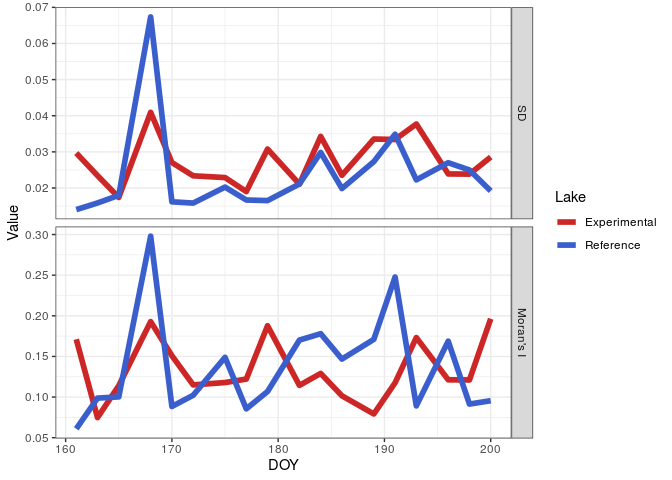
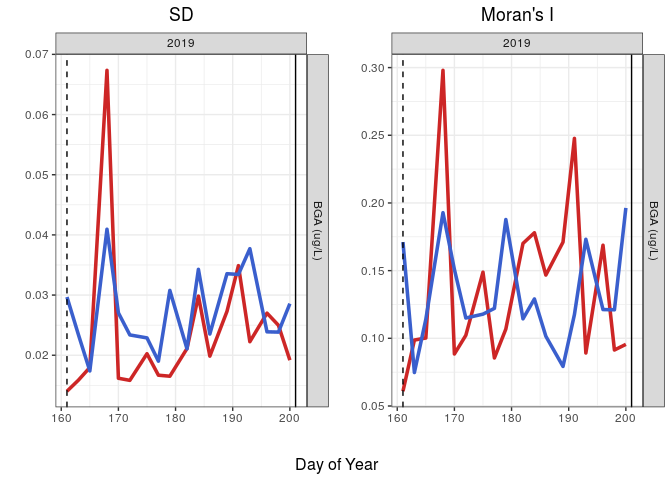
added spatial stats plotting function

diff --git a/README.md b/README.md
@@ -31,19 +31,19 @@ Example results from most recent experiment:
 library(tvsews)
 library(dplyr)
 library(ggplot2)
-ex_data <- ts_data %>% 
-  filter(Year >= 2018) %>% 
+ex_data <- ts_data %>%
+  filter(Year >= 2018) %>%
   select(Lake, Year, DOY, BGA_HYLB)
 
-ex_bloom_fert_dates <- bloom_fert_dates %>% 
+ex_bloom_fert_dates <- bloom_fert_dates %>%
   filter(Year >= 2018 & Lake == "R")
 
 plot_fig1(
-  time_series = ex_data, 
+  time_series = ex_data,
   bloom_fert_df = ex_bloom_fert_dates,
   var_rename_vec = c(`Phycocyanin (cells/mL)` = "BGA_HYLB"),
-  legend_location = c(0.18,0.7)
-  )
+  legend_location = c(0.18, 0.7)
+)
 ```
 
 <img src="man/figures/README-example-1.png" width="100%" />
@@ -55,7 +55,7 @@ ex_rw_stats <- calc_rolling_stats(
   data = ex_data,
   var_cols = "BGA_HYLB",
   widths = c(21)
-  ) # warnings are missing data, okay
+) # warnings are missing data, okay
 ex_qd_all <- run_qd(
   rolling_window_stats = ex_rw_stats,
   var_cols = "BGA_HYLB",
@@ -64,21 +64,21 @@ ex_qd_all <- run_qd(
   exp_lakes = c("R"),
   ref_lake = "L",
   ar1_alarm_rho = 0.95
-  )
+)
 #> [1] "Current variable QD-ing: BGA_HYLB"
 ex_qd_formatted <- format_qd(
   qd_stats = ex_qd_all,
   var_cols = c("BGA_HYLB")
-  )
+)
 ```
 
 ``` r
 # plot the rolling window statistics and alarms
-time_series_plot = plot_fig3(
+time_series_plot <- plot_fig3(
   rolling_window_stats = ex_rw_stats,
   qd_alarms = ex_qd_formatted,
   bloom_fert_df = ex_bloom_fert_dates,
-  var_rename_vec = c(`Phycocyanin (cells/mL)` = "BGA_HYLB"), 
+  var_rename_vec = c(`Phycocyanin (cells/mL)` = "BGA_HYLB"),
   legend_location = c(0.2, 0.7)
 )
 ```
@@ -102,7 +102,7 @@ plot_fig5(
 
 <img src="man/figures/README-unnamed-chunk-4-1.png" width="100%" />
 
-### Plot example spatial data (TO DO: add function to package)
+### Plot example spatial data
 
 ``` r
 plot_fig2(
@@ -119,26 +119,19 @@ plot_fig2(
 #### Just dates in pre-bloom fertilization period to limit computation time.
 
 ``` r
-ex_spatial_data_pbfp = flame_data %>% 
+ex_spatial_data_pbfp <- flame_data %>%
   filter(Year == 2019 & between(DOY, 161, 201))
 
-spatial_stats_pbfp = calc_spatial_stats(
+spatial_stats_pbfp <- calc_spatial_stats(
   spatial_data = ex_spatial_data_pbfp,
   var_cols = c("BGApc_ugL_tau")
-  ) # ignore estimated time as not using all of default data
+) # ignore estimated time as not using all of default data
 ```
 
-### Plot spatial statistics (TO DO: add function to package)
+### Plot spatial statistics
 
 ``` r
-spatial_stats_pbfp %>% 
-  mutate(Lake = ifelse(Lake == "R", "Experimental", "Reference")) %>% 
-  mutate(Stat = factor(Stat, levels = c("SD", "Moran's I"), ordered = TRUE)) %>% 
-  ggplot(aes(x=DOY, y=Value, color=Lake)) +
-  geom_line(size=2) +
-  facet_grid(rows=vars(Stat), scales="free_y") +
-  theme_bw() + 
-  scale_color_manual(values = c("Experimental" = "firebrick3", "Reference" = "royalblue3"))
+spatial_results_plot <- plot_fig4(spatial_stats_pbfp)
 ```
 
 <img src="man/figures/README-unnamed-chunk-7-1.png" width="100%" />
